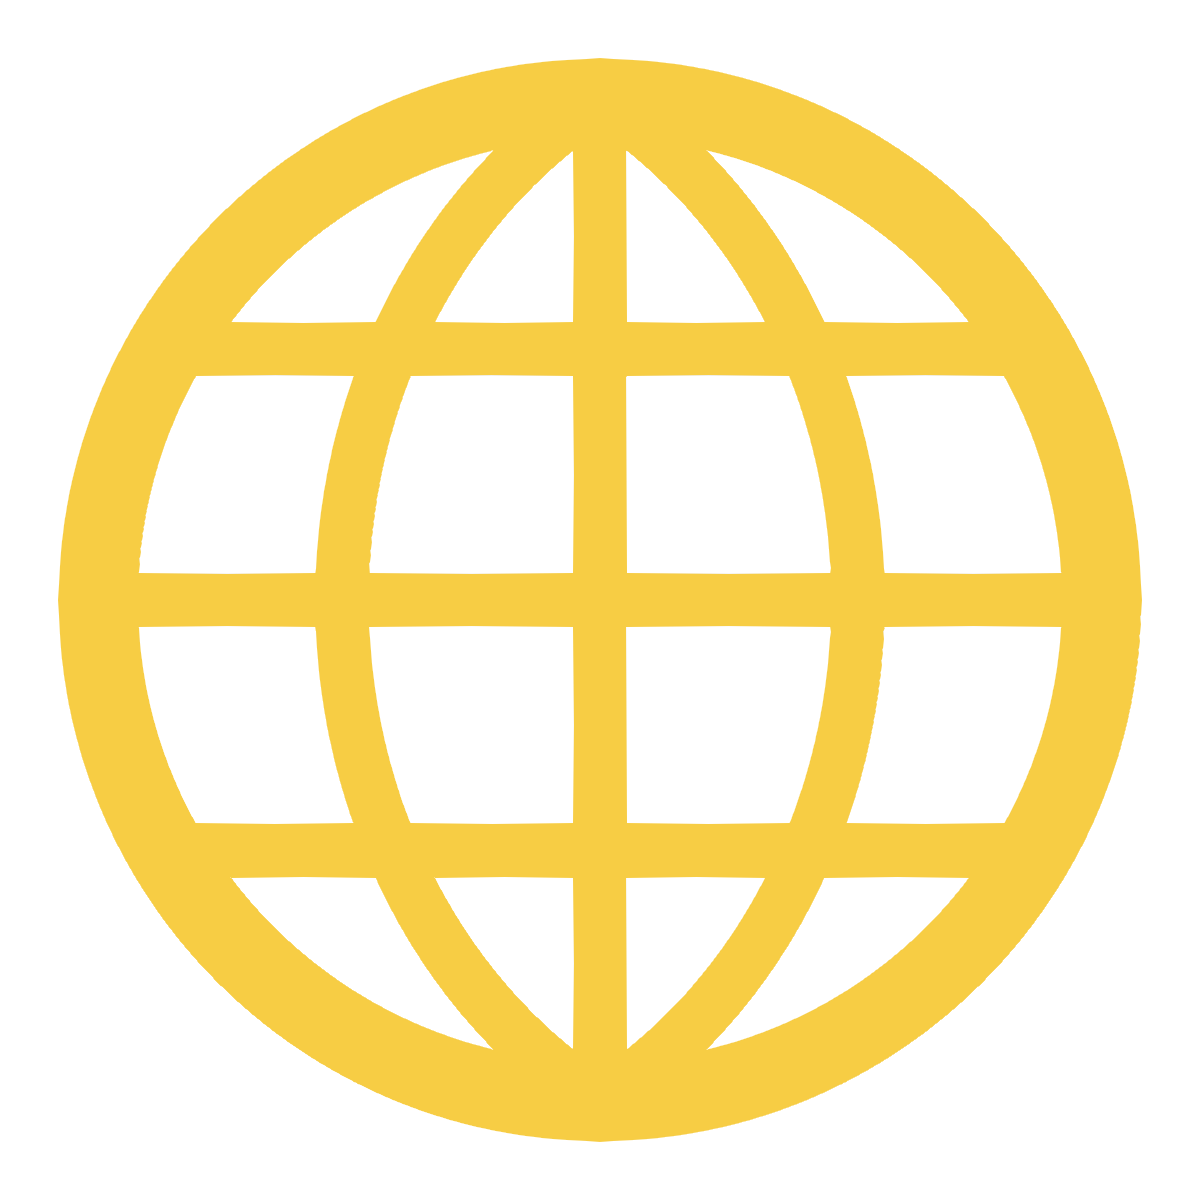
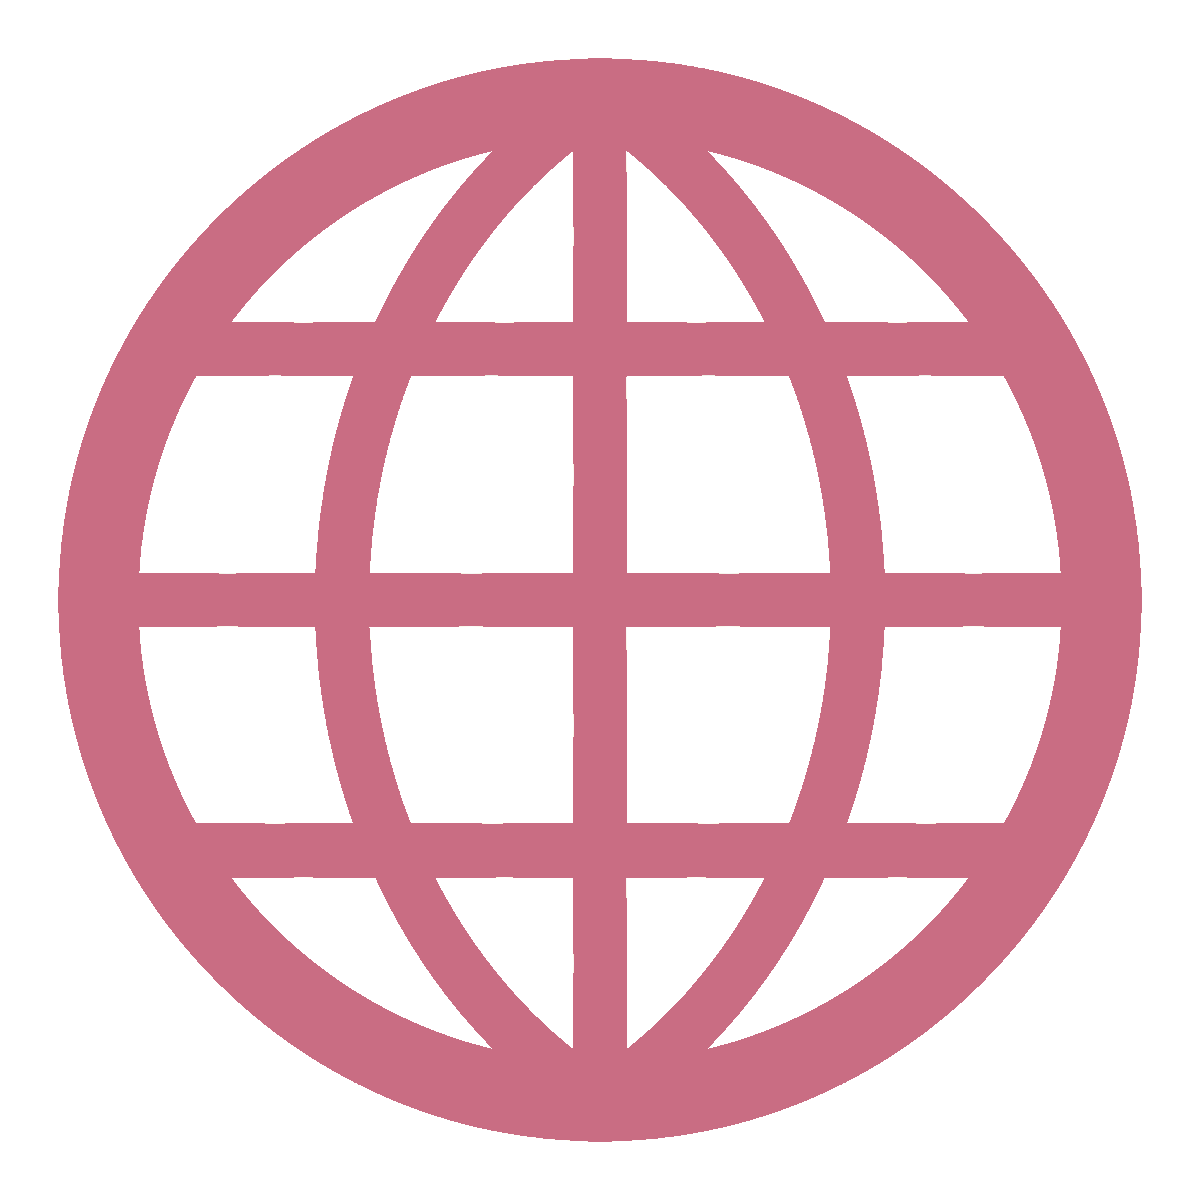
end of 2025 update

diff --git a/projects/index.html b/projects/index.html
@@ -18,8 +18,8 @@
     </div>
     <!-- img id = "pro" src = "pro.png" width="100" -->
 
-    <img src="../star-12515_256.gif" id = "leftGif">
-    <img src="../moon gif.gif" id = "rightGif">
+    <img src="../lain.gif" id = "leftGif">
+    <img src="../blahaj.gif" id = "rightGif">
     <img src="../aavvaa.gif" id = "leftGif2">
 
     <!--  Buttons  -->
@@ -28,10 +28,10 @@
 
         <div class = "buttons">
             <button  id= "l1" type="button" onclick="window.location.href='https://github.com/eshaw463/gschess/tree/main'">Grand Strategy Chess</button>
-            <button  id= "l2" type="button" onclick="window.location.href='https://github.com/eshaw463/MuseumLabel'">Museum Label</button>
-            <button  id= "l3" type="button" onclick="window.location.href=''">placeholder</button>
-            <button  id= "l4" type="button" onclick="window.location.href=''">placeholder</button>
-            <button  id= "l5" type="button" onclick="window.location.href=''">placeholder</button>
+            <button  id= "l2" type="button" onclick="window.location.href='https://randomcrow12.github.io/projects/toolkit/index.html'">Toolkit</button>
+            <button  id= "l3" type="button" onclick="window.location.href='https://github.com/lucasg52/gnostic-db'">Gnostic</button>
+            <button  id= "l4" type="button" onclick="window.location.href='https://github.com/eshaw463/random/tree/main/vim_read_time'">Vim Scripts</button>
+            <button  id= "l5" type="button" onclick="window.location.href='https://github.com/RandomCrow12/Rabbit-Hole-Mods'">Rabbit Hole Mods</button>
         </div>
     </div>
 

diff --git a/photos/styles.css b/photos/styles.css
@@ -1,5 +1,5 @@
 body {
-    background-color: #1E2681;
+    background-color: rgb(0, 0, 0);
 }
 h1 {
     color: rgb(255, 255, 255);
@@ -63,7 +63,7 @@ p {
 }
 
 #randy{
-    color: #f7cd44;
+    color: #C96D83;
     font-size: 50pt;
     font-family: 'Trebuchet MS', 'Lucida Sans Unicode', 'Lucida Grande', 'Lucida Sans', Arial, sans-serif;
     font-style: italic;
@@ -89,9 +89,9 @@ p {
 }
 
 #leftGif2 {
-  position: fixed;
-    bottom: -10%;
-    left: 0%;
+ position: fixed;
+    bottom: -30%;
+    left: 0;
     width: 100%;
     z-index: -1;
 }
@@ -101,6 +101,7 @@ p {
     top: 400px;
     width: 300px;
 }
+
 
 
 #l1 {
@@ -131,7 +132,7 @@ p {
     border-radius: 8px;
 
     border-color: black;
-    background-color: #f7cd44;
+    background-color: #C96D83;
     color: black;
     border: solid black;
     font-family: "Sofia", sans-serif;
@@ -165,7 +166,7 @@ p {
     border-radius: 8px;
 
     border-color: black;
-    background-color: #f7cd44;
+    background-color: #3E6D7A;
     color: rgb(0, 0, 0);
     font-family: "Sofia", sans-serif;
     border: solid black;
@@ -198,9 +199,9 @@ p {
     border: solid beige;
 }
 #l2:hover{
-    color: #f7cd44;
+    color: #C96D83;
     background-color: black;
-    border: solid #f7cd44;
+    border: solid #C96D83;
 }
 #l3:hover{
     color: beige;
@@ -208,9 +209,9 @@ p {
     border: solid beige;
 }
 #l4:hover{
-    color: #f7cd44;
+    color: #3E6D7A;
     background-color: black;
-    border: solid #f7cd44;
+    border: solid #3E6D7A;
 }
 
 #l5:hover{

diff --git a/random_sites/styles.css b/random_sites/styles.css
@@ -1,5 +1,5 @@
 body {
-    background-color: #1E2681;
+    background-color: rgb(0, 0, 0);
 }
 h1 {
     color: rgb(255, 255, 255);
@@ -25,12 +25,13 @@ p {
     position: absolute;
     right: 20px;
     top: 30px;
-    width: 300px;
+    width: 400px;
 }
 
 #leftGif2 {
-    position: absolute;
-    bottom: -15%;
+   position: fixed;
+    bottom: -30%;
+    left: 0;
     width: 100%;
     z-index: -1;
 }
@@ -70,7 +71,7 @@ p {
     border-radius: 8px;
 
     border-color: black;
-    background-color: #f7cd44;
+    background-color: #C96D83;
     color: black;
     border: solid black;
     font-family: "Sofia", sans-serif;
@@ -104,7 +105,7 @@ p {
     border-radius: 8px;
 
     border-color: black;
-    background-color: #f7cd44;
+    background-color: #3E6D7A;
     color: rgb(0, 0, 0);
     font-family: "Sofia", sans-serif;
     border: solid black;
@@ -137,9 +138,9 @@ p {
     border: solid beige;
 }
 #l2:hover{
-    color: #f7cd44;
+    color: #C96D83;
     background-color: black;
-    border: solid #f7cd44;
+    border: solid #C96D83;
 }
 #l3:hover{
     color: beige;
@@ -147,9 +148,9 @@ p {
     border: solid beige;
 }
 #l4:hover{
-    color: #f7cd44;
+    color: #3E6D7A;
     background-color: black;
-    border: solid #f7cd44;
+    border: solid #3E6D7A;
 }
 
 #l5:hover{

diff --git a/projects/styles.css b/projects/styles.css
@@ -1,5 +1,5 @@
 body {
-    background-color: #1E2681;
+    background-color: rgb(0, 0, 0);
 }
 h1 {
     color: rgb(255, 255, 255);
@@ -25,13 +25,13 @@ p {
     position: absolute;
     right: 20px;
     top: 30px;
-    width: 300px;
+    width: 400px;
 }
 
 #leftGif2 {
    position: fixed;
-    bottom: -15%;
-    left: 0%;
+    bottom: -30%;
+    left: 0;
     width: 100%;
     z-index: -1;
 }
@@ -71,7 +71,7 @@ p {
     border-radius: 8px;
 
     border-color: black;
-    background-color: #f7cd44;
+    background-color: #C96D83;
     color: black;
     border: solid black;
     font-family: "Sofia", sans-serif;
@@ -105,7 +105,7 @@ p {
     border-radius: 8px;
 
     border-color: black;
-    background-color: #f7cd44;
+    background-color: #3E6D7A;
     color: rgb(0, 0, 0);
     font-family: "Sofia", sans-serif;
     border: solid black;
@@ -138,9 +138,9 @@ p {
     border: solid beige;
 }
 #l2:hover{
-    color: #f7cd44;
+    color: #C96D83;
     background-color: black;
-    border: solid #f7cd44;
+    border: solid #C96D83;
 }
 #l3:hover{
     color: beige;
@@ -148,9 +148,9 @@ p {
     border: solid beige;
 }
 #l4:hover{
-    color: #f7cd44;
+    color: #3E6D7A;
     background-color: black;
-    border: solid #f7cd44;
+    border: solid #3E6D7A;
 }
 
 #l5:hover{

diff --git a/styles.css b/styles.css
@@ -1,5 +1,5 @@
 body {
-    background-color: #1E2681;
+    background-color: rgb(0, 0, 0);
 }
 h1 {
     color: rgb(255, 255, 255);
@@ -25,13 +25,13 @@ p {
     position: absolute;
     right: 20px;
     top: 30px;
-    width: 300px;
+    width: 400px;
 }
 
 #leftGif2 {
    position: fixed;
-    bottom: -15%;
-    left: 0%;
+    bottom: -30%;
+    left: 0;
     width: 100%;
     z-index: -1;
 }
@@ -71,7 +71,7 @@ p {
     border-radius: 8px;
 
     border-color: black;
-    background-color: #f7cd44;
+    background-color: #C96D83;
     color: black;
     border: solid black;
     font-family: "Sofia", sans-serif;
@@ -105,7 +105,7 @@ p {
     border-radius: 8px;
 
     border-color: black;
-    background-color: #f7cd44;
+    background-color: #3E6D7A;
     color: rgb(0, 0, 0);
     font-family: "Sofia", sans-serif;
     border: solid black;
@@ -138,9 +138,9 @@ p {
     border: solid beige;
 }
 #l2:hover{
-    color: #f7cd44;
+    color: #C96D83;
     background-color: black;
-    border: solid #f7cd44;
+    border: solid #C96D83;
 }
 #l3:hover{
     color: beige;
@@ -148,9 +148,9 @@ p {
     border: solid beige;
 }
 #l4:hover{
-    color: #f7cd44;
+    color: #3E6D7A;
     background-color: black;
-    border: solid #f7cd44;
+    border: solid #3E6D7A;
 }
 
 #l5:hover{

diff --git a/contact/styles.css b/contact/styles.css
@@ -1,5 +1,5 @@
 body {
-    background-color: #1E2681;
+    background-color: #000000;
 }
 h1 {
     color: rgb(255, 255, 255);
@@ -72,7 +72,7 @@ p {
     border-radius: 8px;
 
     border-color: black;
-    background-color: #f7cd44;
+    background-color: #C96D83;
     color: black;
     border: solid black;
     font-family: "Sofia", sans-serif;
@@ -139,9 +139,9 @@ p {
     border: solid beige;
 }
 #l2:hover{
-    color: #f7cd44;
+    color: #C96D83;
     background-color: black;
-    border: solid #f7cd44;
+    border: solid #C96D83;
 }
 #l3:hover{
     color: beige;

diff --git a/contact/index.html b/contact/index.html
@@ -18,8 +18,8 @@
     </div>
     <!-- img id = "pro" src = "pro.png" width="100" -->
 
-    <img src="../star-12515_256.gif" id = "leftGif">
-    <img src="../moon gif.gif" id = "rightGif">
+    <img src="../lain dancing.gif" id = "leftGif">
+    <img src="../tetoooo.gif" id = "rightGif">
     <img src="../aavvaa.gif" id = "leftGif2">
 
    <div class= "info">

diff --git a/random_sites/index.html b/random_sites/index.html
@@ -18,8 +18,8 @@
     </div>
     <!-- img id = "pro" src = "pro.png" width="100" -->
 
-    <img src="../star-12515_256.gif" id = "leftGif">
-    <img src="../moon gif.gif" id = "rightGif">
+    <img src="../lain.gif" id = "leftGif">
+    <img src="../blahaj.gif" id = "rightGif">
     <img src="../aavvaa.gif" id = "leftGif2">
 
     <!--  Buttons  -->

diff --git a/index.html b/index.html
@@ -18,8 +18,8 @@
     </div>
     <!-- img id = "pro" src = "pro.png" width="100" -->
 
-    <img src="star-12515_256.gif" id = "leftGif">
-    <img src="moon gif.gif" id = "rightGif">
+    <img src="lain.gif" id = "leftGif">
+    <img src="blahaj.gif" id = "rightGif">
     <img src="aavvaa.gif" id = "leftGif2">
 
     <!--  Buttons  -->

diff --git a/photos/index.html b/photos/index.html
@@ -12,7 +12,6 @@
 <body>
     
     <img src="../aavvaa.gif" id = "leftGif2">
-    <img src="../star-12515_256.gif" id = "leftGif">
 
     <!-- img src = "logo.png" width="100" -->
 
